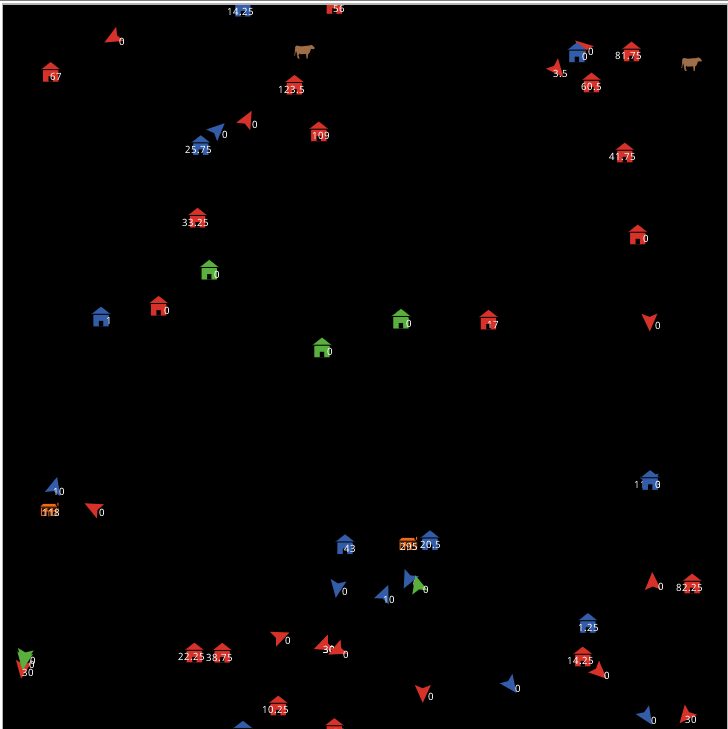
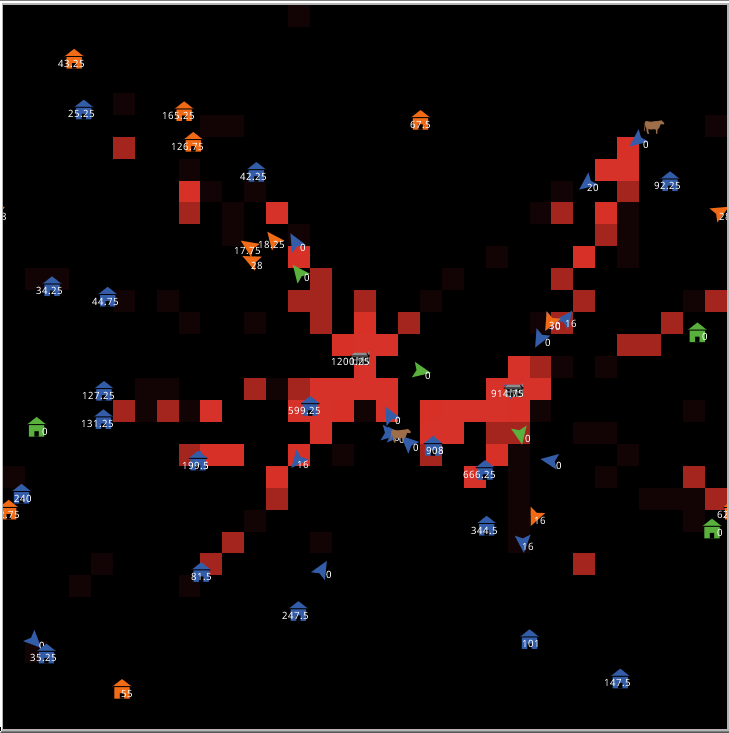
Adding implementation description to document

diff --git a/entrega1.tex b/entrega1.tex
@@ -356,28 +356,31 @@ descrived in the last section are what defines how the simulation will execute.
 
 \section{Implementation}
 
-%Claridad
-%Presentación del modelo (imágenes adecuadas)
-%Uso de técnicas avanzadas.
-%Presentación de resultados.
-%Facilidad de uso
-
 As mentioned before the model was implemented using the NetLogo software
-\cite{netlogo}. The interface of the model is as follows, in the
-figure \ref{imp:main_interface1}
-figure \ref{imp:population_plot1}
-figure \ref{imp:economy1}
-figure \ref{imp:parameters1}
-figure \ref{imp:buttons}
+\cite{netlogo}. The first element of the model is the simulation field
+pressented in figure \ref{imp:main_interface1} which shows the space distribution
+of all agents. In there farmers are blue, bandits are orange and soldiers are
+green, just like their houses. Farms are shown in brown with the simbol of a cow
+and city halls are presented with gray color and a colonial house symbol. All
+agents show the amount of resorces they have as a label on top of them. And the
+red squares represent the danger zones, which are directly proportional to the
+intencity of the color.
 
 \newpage
 
 \begin{figure}[h!]
     \centering
-    \includegraphics[scale=0.5]{Images/Interface1}
+    \includegraphics[scale=0.65]{Images/Interface1}
     \caption{Main interface}
     \label{imp:main_interface1}
 \end{figure}
+
+The second element of the interface are the pupulation and economic indicators,
+which are shown in figure \ref{imp:population_plot1} and
+figure \ref{imp:economy1} respectively. The show the number of individuals per
+social group during all the execution and the total inventory that a specific
+group has stored in their respective buildings (houses for farmers and bandits,
+and city halls for soldiers).
 
 \begin{figure}[h!]
     \centering
@@ -393,12 +396,21 @@ figure \ref{imp:buttons}
     \label{imp:population_plot1}
 \end{figure}
 
+In figure \ref{imp:parameters1} are shown all the parameters of the model as
+sliders and the see danger zones switch that allow the user to see or hide the
+danger messure in all patches represented with the intencity of the red color.
+
 \begin{figure}[h!]
     \centering
     \includegraphics[scale=0.5]{Images/Sliders1}
     \caption{Model parameters}
     \label{imp:parameters1}
 \end{figure}
+
+Finaly in figure \ref{imp:buttons} are shown the three buttons to control the
+execution. The first one is used to initializate the model, the second one
+executes one tick of the simulation and the last one execute the model
+continuously.
 
 \begin{figure}[h!]
     \centering
